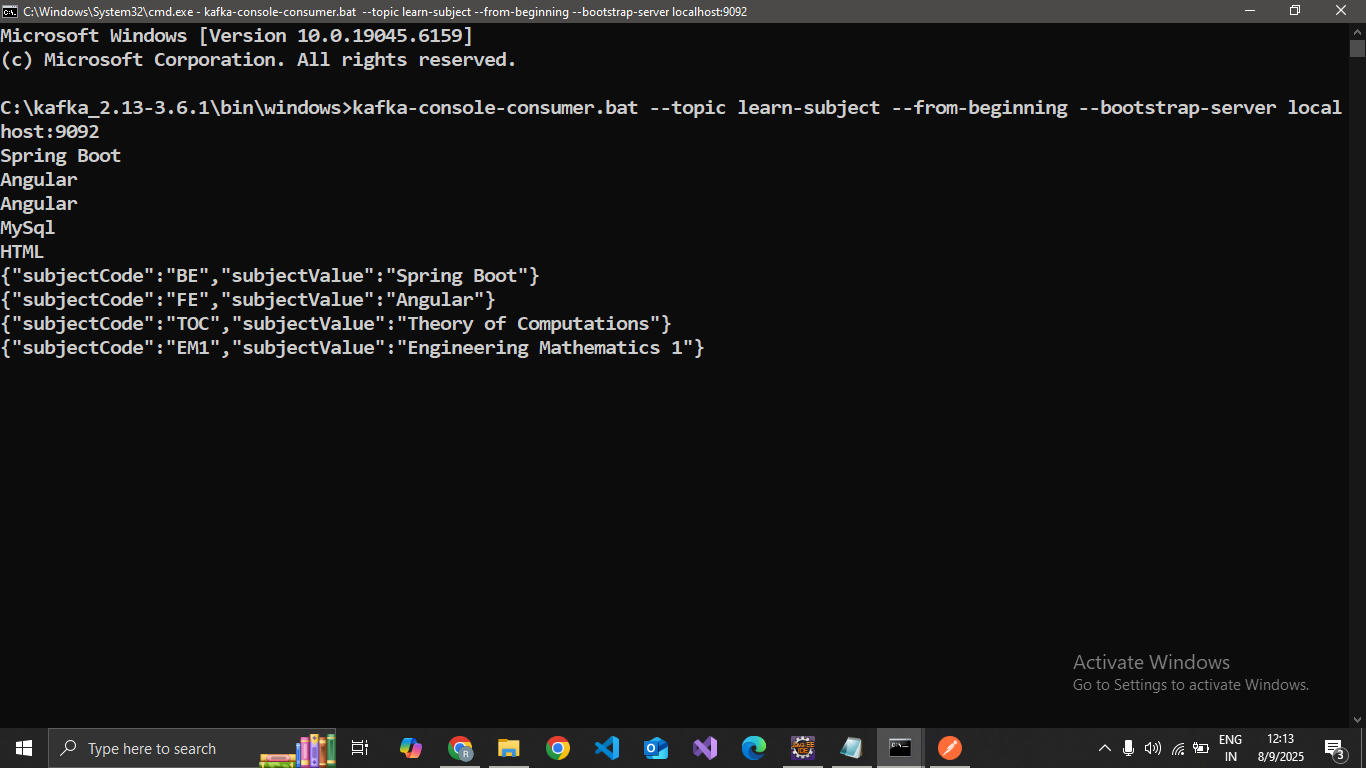
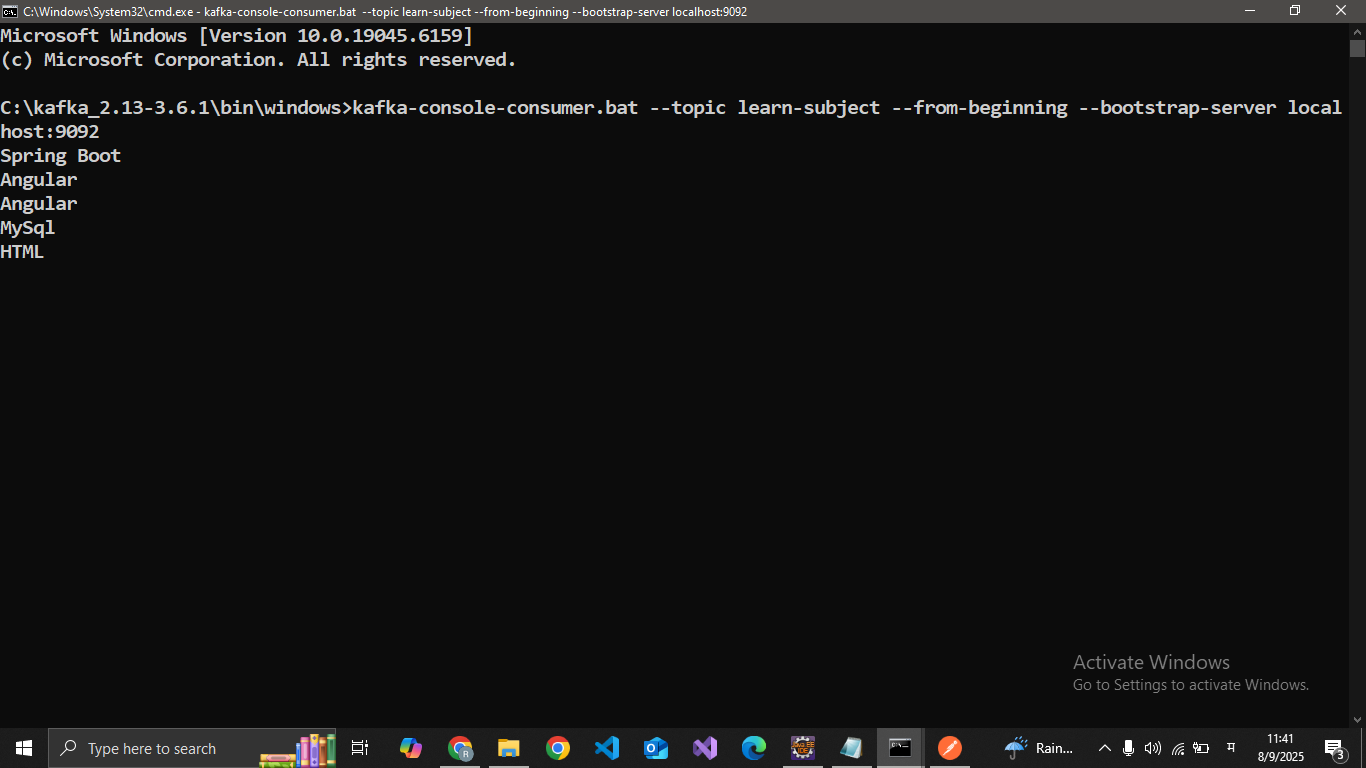
Added Exercises for 09-08-2025

Changed region(s): [[0.0, 0.3438, 0.5227, 0.4688], [0.8917, 0.9375, 0.9531, 1.0], [0.7379, 0.9688, 0.7687, 1.0]]

diff --git a/09-08-25/Ex2_learnsubjectConsumer/src/main/java/com/wipro/learnsubject/config/AppConsumerConfig.java b/09-08-25/Ex2_learnsubjectConsumer/src/main/java/com/wipro/learnsubject/config/AppConsumerConfig.java
@@ -10,27 +10,22 @@ import org.springframework.context.annotation.Configuration;
 import org.springframework.kafka.config.ConcurrentKafkaListenerContainerFactory;
 import org.springframework.kafka.core.ConsumerFactory;
 import org.springframework.kafka.core.DefaultKafkaConsumerFactory;
-import org.springframework.kafka.support.serializer.JsonDeserializer;
-
-import com.wipro.learnsubject.entity.Subject;
 
 @Configuration
 public class AppConsumerConfig {
 	@Bean
-    public ConsumerFactory<String, Subject> consumerFactory() {
-        JsonDeserializer<Subject> deserializer = new JsonDeserializer<>(Subject.class);
-        deserializer.addTrustedPackages("*");
-        Map<String, Object> config = new HashMap<>();
-        config.put(ConsumerConfig.BOOTSTRAP_SERVERS_CONFIG, "localhost:9092");
-        config.put(ConsumerConfig.GROUP_ID_CONFIG, "group_learn_subject");
-        config.put(ConsumerConfig.KEY_DESERIALIZER_CLASS_CONFIG, StringDeserializer.class);
-        config.put(ConsumerConfig.VALUE_DESERIALIZER_CLASS_CONFIG, org.springframework.kafka.support.serializer.JsonDeserializer.class);
-        return new DefaultKafkaConsumerFactory<>(config, new StringDeserializer(), deserializer);
+    public ConsumerFactory<String, String> consumerFactory() {
+        Map<String, Object> configProps = new HashMap<>();
+        configProps.put(ConsumerConfig.BOOTSTRAP_SERVERS_CONFIG, "localhost:9092");
+//        configProps.put(ConsumerConfig.GROUP_ID_CONFIG, "my-group-id");
+        configProps.put(ConsumerConfig.KEY_DESERIALIZER_CLASS_CONFIG, StringDeserializer.class);
+        configProps.put(ConsumerConfig.VALUE_DESERIALIZER_CLASS_CONFIG, StringDeserializer.class);
+        return new DefaultKafkaConsumerFactory<>(configProps);
     }
 
     @Bean
-    public ConcurrentKafkaListenerContainerFactory<String, Subject> kafkaListenerContainerFactory() {
-        ConcurrentKafkaListenerContainerFactory<String, Subject> factory = new ConcurrentKafkaListenerContainerFactory<>();
+    public ConcurrentKafkaListenerContainerFactory<String, String> kafkaListenerContainerFactory() {
+        ConcurrentKafkaListenerContainerFactory<String, String> factory = new ConcurrentKafkaListenerContainerFactory<>();
         factory.setConsumerFactory(consumerFactory());
         return factory;
     }

diff --git a/09-08-25/Ex3_learnsubjectConsumer/src/main/java/com/wipro/learnsubject/config/AppConsumerConfig.java b/09-08-25/Ex3_learnsubjectConsumer/src/main/java/com/wipro/learnsubject/config/AppConsumerConfig.java
@@ -1,0 +1,37 @@
+package com.wipro.learnsubject.config;
+
+import java.util.HashMap;
+import java.util.Map;
+
+import org.apache.kafka.clients.consumer.ConsumerConfig;
+import org.apache.kafka.common.serialization.StringDeserializer;
+import org.springframework.context.annotation.Bean;
+import org.springframework.context.annotation.Configuration;
+import org.springframework.kafka.config.ConcurrentKafkaListenerContainerFactory;
+import org.springframework.kafka.core.ConsumerFactory;
+import org.springframework.kafka.core.DefaultKafkaConsumerFactory;
+import org.springframework.kafka.support.serializer.JsonDeserializer;
+
+import com.wipro.learnsubject.entity.Subject;
+
+@Configuration
+public class AppConsumerConfig {
+	@Bean
+    public ConsumerFactory<String, Subject> consumerFactory() {
+        JsonDeserializer<Subject> deserializer = new JsonDeserializer<>(Subject.class);
+        deserializer.addTrustedPackages("*");
+        Map<String, Object> config = new HashMap<>();
+        config.put(ConsumerConfig.BOOTSTRAP_SERVERS_CONFIG, "localhost:9092");
+        config.put(ConsumerConfig.GROUP_ID_CONFIG, "group_learn_subject");
+        config.put(ConsumerConfig.KEY_DESERIALIZER_CLASS_CONFIG, StringDeserializer.class);
+        config.put(ConsumerConfig.VALUE_DESERIALIZER_CLASS_CONFIG, org.springframework.kafka.support.serializer.JsonDeserializer.class);
+        return new DefaultKafkaConsumerFactory<>(config, new StringDeserializer(), deserializer);
+    }
+
+    @Bean
+    public ConcurrentKafkaListenerContainerFactory<String, Subject> kafkaListenerContainerFactory() {
+        ConcurrentKafkaListenerContainerFactory<String, Subject> factory = new ConcurrentKafkaListenerContainerFactory<>();
+        factory.setConsumerFactory(consumerFactory());
+        return factory;
+    }
+}

diff --git a/09-08-25/Ex2_learnsubjectProducer/src/main/java/com/wipro/learnsubject/config/AppProducerConfig.java b/09-08-25/Ex2_learnsubjectProducer/src/main/java/com/wipro/learnsubject/config/AppProducerConfig.java
@@ -9,21 +9,19 @@ import org.springframework.context.annotation.Configuration;
 import org.springframework.kafka.core.DefaultKafkaProducerFactory;
 import org.springframework.kafka.core.KafkaTemplate;
 import org.springframework.kafka.core.ProducerFactory;
-
-import com.wipro.learnsubject.entity.Subject;
 @Configuration
 public class AppProducerConfig {
 	@Bean
-	public ProducerFactory<String, Subject> producerFactory() {
-	    Map<String, Object> config = new HashMap<>();
-	    config.put(ProducerConfig.BOOTSTRAP_SERVERS_CONFIG, "localhost:9092");
-	    config.put(ProducerConfig.KEY_SERIALIZER_CLASS_CONFIG, StringSerializer.class);
-	    config.put(ProducerConfig.VALUE_SERIALIZER_CLASS_CONFIG, org.springframework.kafka.support.serializer.JsonSerializer.class);
-	    return new DefaultKafkaProducerFactory<>(config);
-	}
+    public ProducerFactory<String, String> producerFactory() {
+        Map<String, Object> props = new HashMap<>();
+        props.put(ProducerConfig.BOOTSTRAP_SERVERS_CONFIG, "localhost:9092");
+        props.put(ProducerConfig.KEY_SERIALIZER_CLASS_CONFIG, StringSerializer.class);
+        props.put(ProducerConfig.VALUE_SERIALIZER_CLASS_CONFIG, StringSerializer.class);
+        return new DefaultKafkaProducerFactory<>(props);
+    }
 
-	@Bean
-	public KafkaTemplate<String, Subject> kafkaTemplate() {
-	    return new KafkaTemplate<>(producerFactory());
-	}
+    @Bean
+    public KafkaTemplate<String, String> kafkaTemplate() {
+        return new KafkaTemplate<>(producerFactory());
+    }
 }

diff --git a/09-08-25/Ex3_learnsubjectProducer/src/main/java/com/wipro/learnsubject/config/AppProducerConfig.java b/09-08-25/Ex3_learnsubjectProducer/src/main/java/com/wipro/learnsubject/config/AppProducerConfig.java
@@ -1,0 +1,29 @@
+package com.wipro.learnsubject.config;
+import java.util.HashMap;
+import java.util.Map;
+
+import org.apache.kafka.clients.producer.ProducerConfig;
+import org.apache.kafka.common.serialization.StringSerializer;
+import org.springframework.context.annotation.Bean;
+import org.springframework.context.annotation.Configuration;
+import org.springframework.kafka.core.DefaultKafkaProducerFactory;
+import org.springframework.kafka.core.KafkaTemplate;
+import org.springframework.kafka.core.ProducerFactory;
+
+import com.wipro.learnsubject.entity.Subject;
+@Configuration
+public class AppProducerConfig {
+	@Bean
+	public ProducerFactory<String, Subject> producerFactory() {
+	    Map<String, Object> config = new HashMap<>();
+	    config.put(ProducerConfig.BOOTSTRAP_SERVERS_CONFIG, "localhost:9092");
+	    config.put(ProducerConfig.KEY_SERIALIZER_CLASS_CONFIG, StringSerializer.class);
+	    config.put(ProducerConfig.VALUE_SERIALIZER_CLASS_CONFIG, org.springframework.kafka.support.serializer.JsonSerializer.class);
+	    return new DefaultKafkaProducerFactory<>(config);
+	}
+
+	@Bean
+	public KafkaTemplate<String, Subject> kafkaTemplate() {
+	    return new KafkaTemplate<>(producerFactory());
+	}
+}

diff --git a/09-08-25/Ex2_learnsubjectProducer/src/main/java/com/wipro/learnsubject/controller/ProducerController.java b/09-08-25/Ex2_learnsubjectProducer/src/main/java/com/wipro/learnsubject/controller/ProducerController.java
@@ -1,25 +1,22 @@
 package com.wipro.learnsubject.controller;
 
 import org.springframework.beans.factory.annotation.Autowired;
-import org.springframework.web.bind.annotation.PostMapping;
-import org.springframework.web.bind.annotation.RequestBody;
+import org.springframework.web.bind.annotation.GetMapping;
+import org.springframework.web.bind.annotation.PathVariable;
 import org.springframework.web.bind.annotation.RequestMapping;
 import org.springframework.web.bind.annotation.RestController;
 
-import com.wipro.learnsubject.entity.Subject;
 import com.wipro.learnsubject.service.ProducerService;
 
 @RestController
 @RequestMapping("/learnsubject")
 public class ProducerController {
+	 @Autowired
+	    private ProducerService producerService;
 
-    @Autowired
-    private ProducerService producerService;
-
-    @PostMapping("/send")
-    public String sendSubject(@RequestBody Subject subject) {
-        producerService.sendSubject(subject);
-        return "Subject sent: " + subject;
-    }
-
+	    @GetMapping("/{message}")
+	    public String sendMessage(@PathVariable String message) {
+	    	producerService.sendMessage(message);
+	        return "Message published: " + message;
+}
 }

diff --git a/09-08-25/Ex3_learnsubjectProducer/src/main/java/com/wipro/learnsubject/controller/ProducerController.java b/09-08-25/Ex3_learnsubjectProducer/src/main/java/com/wipro/learnsubject/controller/ProducerController.java
@@ -1,0 +1,25 @@
+package com.wipro.learnsubject.controller;
+
+import org.springframework.beans.factory.annotation.Autowired;
+import org.springframework.web.bind.annotation.PostMapping;
+import org.springframework.web.bind.annotation.RequestBody;
+import org.springframework.web.bind.annotation.RequestMapping;
+import org.springframework.web.bind.annotation.RestController;
+
+import com.wipro.learnsubject.entity.Subject;
+import com.wipro.learnsubject.service.ProducerService;
+
+@RestController
+@RequestMapping("/learnsubject")
+public class ProducerController {
+
+    @Autowired
+    private ProducerService producerService;
+
+    @PostMapping("/send")
+    public String sendSubject(@RequestBody Subject subject) {
+        producerService.sendSubject(subject);
+        return "Subject sent: " + subject;
+    }
+
+}

diff --git a/09-08-25/Ex2_learnsubjectProducer/src/main/java/com/wipro/learnsubject/service/ProducerServiceImpl.java b/09-08-25/Ex2_learnsubjectProducer/src/main/java/com/wipro/learnsubject/service/ProducerServiceImpl.java
@@ -3,15 +3,13 @@ package com.wipro.learnsubject.service;
 import org.springframework.beans.factory.annotation.Autowired;
 import org.springframework.kafka.core.KafkaTemplate;
 import org.springframework.stereotype.Service;
-
-import com.wipro.learnsubject.entity.Subject;
 @Service
 public class ProducerServiceImpl implements ProducerService{
 	@Autowired
-    private KafkaTemplate<String, Subject> kafkaTemplate;
+    private KafkaTemplate<String, String> kafkaTemplate;
 
-    public void sendSubject(Subject subject) {
-        kafkaTemplate.send("learn-subject", subject);
-        System.out.println("Message sent to Kafka: " + subject);
+    public void sendMessage(String message) {
+        kafkaTemplate.send("learn-subject", message);
+        System.out.println("Message sent to Kafka: " + message);
     }
 }

diff --git a/09-08-25/Ex3_learnsubjectProducer/src/main/java/com/wipro/learnsubject/service/ProducerServiceImpl.java b/09-08-25/Ex3_learnsubjectProducer/src/main/java/com/wipro/learnsubject/service/ProducerServiceImpl.java
@@ -3,13 +3,15 @@ package com.wipro.learnsubject.service;
 import org.springframework.beans.factory.annotation.Autowired;
 import org.springframework.kafka.core.KafkaTemplate;
 import org.springframework.stereotype.Service;
+
+import com.wipro.learnsubject.entity.Subject;
 @Service
 public class ProducerServiceImpl implements ProducerService{
 	@Autowired
-    private KafkaTemplate<String, String> kafkaTemplate;
+    private KafkaTemplate<String, Subject> kafkaTemplate;
 
-    public void sendMessage(String message) {
-        kafkaTemplate.send("learn-subject", message);
-        System.out.println("Message sent to Kafka: " + message);
+    public void sendSubject(Subject subject) {
+        kafkaTemplate.send("learn-subject", subject);
+        System.out.println("Message sent to Kafka: " + subject);
     }
 }

diff --git a/09-08-25/Ex2_learnsubjectConsumer/src/main/java/com/wipro/learnsubject/consumer/LearnConsumer.java b/09-08-25/Ex2_learnsubjectConsumer/src/main/java/com/wipro/learnsubject/consumer/LearnConsumer.java
@@ -3,12 +3,10 @@ package com.wipro.learnsubject.consumer;
 import org.springframework.kafka.annotation.KafkaListener;
 import org.springframework.stereotype.Component;
 
-import com.wipro.learnsubject.entity.Subject;
-
 @Component
 public class LearnConsumer {
 	@KafkaListener(topics = "learn-subject", groupId = "group_id")
-    public void consume(Subject subject) {
-        System.out.println("Consumed message: " + subject);
+    public void consume(String msg) {
+        System.out.println("Consumed message: " + msg);
     }
 }

diff --git a/09-08-25/Ex3_learnsubjectConsumer/src/main/java/com/wipro/learnsubject/consumer/LearnConsumer.java b/09-08-25/Ex3_learnsubjectConsumer/src/main/java/com/wipro/learnsubject/consumer/LearnConsumer.java
@@ -3,10 +3,12 @@ package com.wipro.learnsubject.consumer;
 import org.springframework.kafka.annotation.KafkaListener;
 import org.springframework.stereotype.Component;
 
+import com.wipro.learnsubject.entity.Subject;
+
 @Component
 public class LearnConsumer {
 	@KafkaListener(topics = "learn-subject", groupId = "group_id")
-    public void consume(String msg) {
-        System.out.println("Consumed message: " + msg);
+    public void consume(Subject subject) {
+        System.out.println("Consumed message: " + subject);
     }
 }

diff --git a/09-08-25/Ex2_learnsubjectProducer/src/main/java/com/wipro/learnsubject/service/ProducerService.java b/09-08-25/Ex2_learnsubjectProducer/src/main/java/com/wipro/learnsubject/service/ProducerService.java
@@ -1,7 +1,5 @@
 package com.wipro.learnsubject.service;
 
-import com.wipro.learnsubject.entity.Subject;
-
 public interface ProducerService {
-	public void sendSubject(Subject subject);
+	public void sendMessage(String message);
 }

diff --git a/09-08-25/Ex3_learnsubjectProducer/src/main/java/com/wipro/learnsubject/service/ProducerService.java b/09-08-25/Ex3_learnsubjectProducer/src/main/java/com/wipro/learnsubject/service/ProducerService.java
@@ -1,0 +1,7 @@
+package com.wipro.learnsubject.service;
+
+import com.wipro.learnsubject.entity.Subject;
+
+public interface ProducerService {
+	public void sendSubject(Subject subject);
+}
